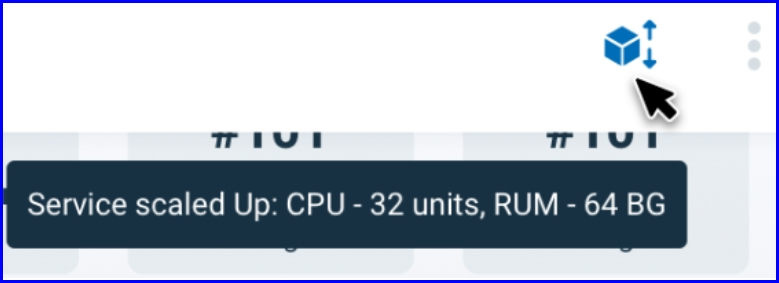
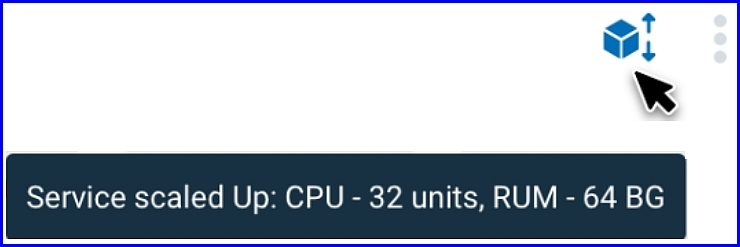
Scaling updates

diff --git a/site-flare/Content/production/production-Scale-Up-Scale-Down.html b/site-flare/Content/production/production-Scale-Up-Scale-Down.html
@@ -4,20 +4,13 @@
     </head>
     <body>
         <h1 class="tc-pagetitle">On Demand Scale Up/Scale Down</h1>
-        <h1>Vertical Scaling</h1>
-        <p><b>Vertical scaling</b>, referred to as <b href="production-scale-up-scale-down.html">Scale Up/Scale Down</b>, allows  the amount of RAM and CPU to be increased or decreased - without downtime - for an active GigaSpaces cluster.</p>
-        <p>For example, additional memory or CPUs may be added to an existing physical node.</p>
-        <p style="text-align: center;">
-            <img src="../Resources/Static/images/Scaling-example-of-vertical-scaling.jpg">
-            </img>
-        </p>
-        <p>Scale Up/Scale Down can be used for applications that have many "atomic" transactions (logical units of work), often using relational databases.</p>
-        <div class="tc-admon-note">
-            <p>This feature is available in both the Elasticgrid and the Kubernetes environment.</p>
-        </div>
-        <h2>Advantages</h2>
+        <h1>Types of Scaling</h1>
+        <p>Vertical scaling, referred to as <b href="production-scale-up-scale-down.html">Scale Up/Scale Down</b> and the subject of this topic, allows  the amount of RAM and CPU to be increased or decreased - without downtime - for an active GigaSpaces cluster. For example, additional memory or CPUs may be added to an existing physical node.</p>
+        <p>Another form of scaling, horizontal scaling, referred to as <b><a href="production-Scale-Out-Scale-In.html">Scale Out/Scale In</a></b>, means to add or reduce the number of partitions used for an application. For example, additional partitions may be created in the same server, or alternatively, servers may be added or removed.</p>
+        <p>For an overview of both types of scaling, see <MadCap:xref href="production-Rescaling-your-application-in-GigaSpaces.html">Rescaling Your Application in [%=General.CompanyName%]</MadCap:xref>.</p>
+        <h2>Advantages of On Demand Scale Up/Scale Down</h2>
         <ul>
-            <li>Resources are located close physical proximity. <br></br>This allows faster access to related data, such as credit/debit table updates in a closed (atomic) unit of work..</li>
+            <li>Resources are located close physical proximity. This allows faster access to related data, such as credit/debit table updates in a closed (atomic) unit of work..</li>
             <li>A performance gain is realized, because their is more RAM and CPU on each update.</li>
         </ul>
         <h2>Use Cases</h2>
@@ -33,7 +26,7 @@
             <li><b>Service leve</b>l - scale all of the partitions that use a particular GigaSpaces service. <br />An example is a service used for a shopping cart. At certain times the user may wish to Scale Up/Scale Down all of the partitions using the service, no matter where they are located.</li>
             <li><b>Single partition</b> - Scale a single partition only. <br />An example is a partition that handles flight requests to a particular airport. At times it may be necessary to scale the resource for that particular partition, depending on seasonal travel patterns.</li>
         </ul>
-        <h1>What Frameworks are Available for Scale Up/Scale Down?</h1>
+        <h1>What APIs are Available for Scale Up/Scale Down?</h1>
         <p>Scale Up/Scale/Down can be performed in each of the <MadCap:variable name="General.ProductNameXAP" /> environments:</p>
         <ul>
             <li>Ops Manager</li>
@@ -76,25 +69,25 @@
         </p>
         <p>The blue banner on the top of the screen is a progress indicator with messages indicating the stage of the scaling:</p>
         <p>
-            <img src="../Resources/Static/images/SUSD-scaling-service-in-progress.jpg" />
+            <img src="../Resources/Static/images/SUSD-scaling-service-in-progress.jpg" class="tc-picture30" />
         </p>
         <p>Note that for performance reasons, and to ensure high availability and service resilience, scaling is done in small "batches" of partitions. In this example, 100 instances are being scaled, in ten batches of ten partitions each.</p>
         <p>When scaling completes successfully, a message is displayed:</p>
         <p>
-            <img src="../Resources/Static/images/SUSD-scaling-service-completed.jpg" />
+            <img src="../Resources/Static/images/SUSD-scaling-service-completed.jpg" class="tc-picture30" />
         </p>
         <p>If an error occurs, an appropriate message will display:</p>
         <p>
-            <img src="../Resources/Static/images/SUSD-scaling-partly-completed.jpg" />
+            <img src="../Resources/Static/images/SUSD-scaling-partly-completed.jpg" class="tc-picture30" />
         </p>
         <p>and the right side of the screen will show an option to display an error log:</p>
         <p>
-            <img src="../Resources/Static/images/SUSD-scaling-show-error-log.jpg" />
+            <img src="../Resources/Static/images/SUSD-scaling-show-error-log.jpg" class="tc-picture30" />
         </p>
         <p>Note that in the event that one or more of the scaling requests fails, the successful scaling requests are not undone. For a particular partition that has a scaling error (possibly caused by lack of system resources), that partition will be restored to its original settings, without any data loss.</p>
         <p>Once the scaling request has completed, a cube-shaped icon displays on the top right of the screen. You can hover over this icon to see a brief description of the scaling result:</p>
         <p>
-            <img src="../Resources/Static/images/SUSD-service-scaled-up.jpg" />
+            <img src="../Resources/Static/images/SUSD-service-scaled-up.jpg" class="tc-picture30" />
         </p>
         <h3>Selecting a Specific Partition to Scale</h3>
         <p>From the Service screen for the stateful service that you wish to scale, hover over the three dots that are on the same row as the partition instance that you wish to scale, and click <b>Scale up/down</b>:</p>
